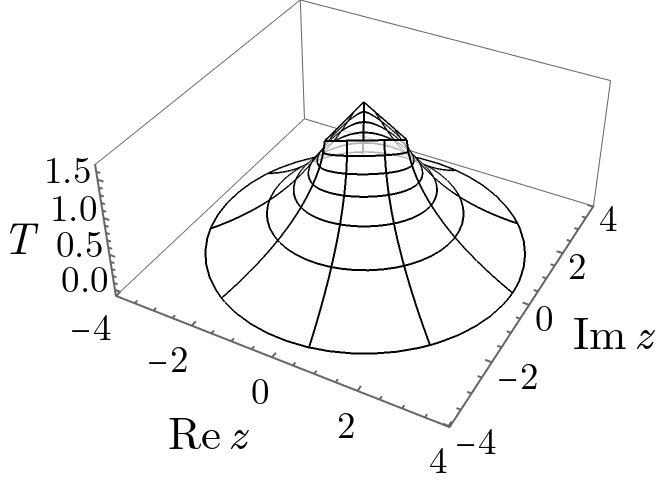
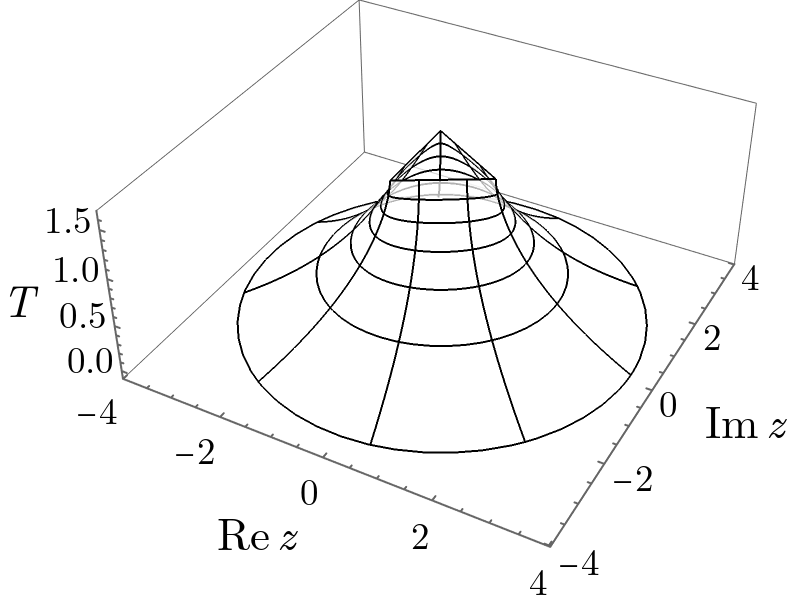
Complex: update solution figure (increase ImageSize)
See yawnoc/phd-code@cdf7d7ffb1.

diff --git a/appendices/complex.tex b/appendices/complex.tex
@@ -177,7 +177,7 @@ Note that the $T$-contours coincide
 with the curves of constant~$\rho$.
 
 \begin{figure}
-  \centredfigurecontent[width=0.4\textwidth]{%
+  \centredfigurecontent[width=0.48\textwidth]{%
     conformal_triangle-known-solution%
   }{
     Solution~(\ref{eq:conformal_triangle-known-solution}),
